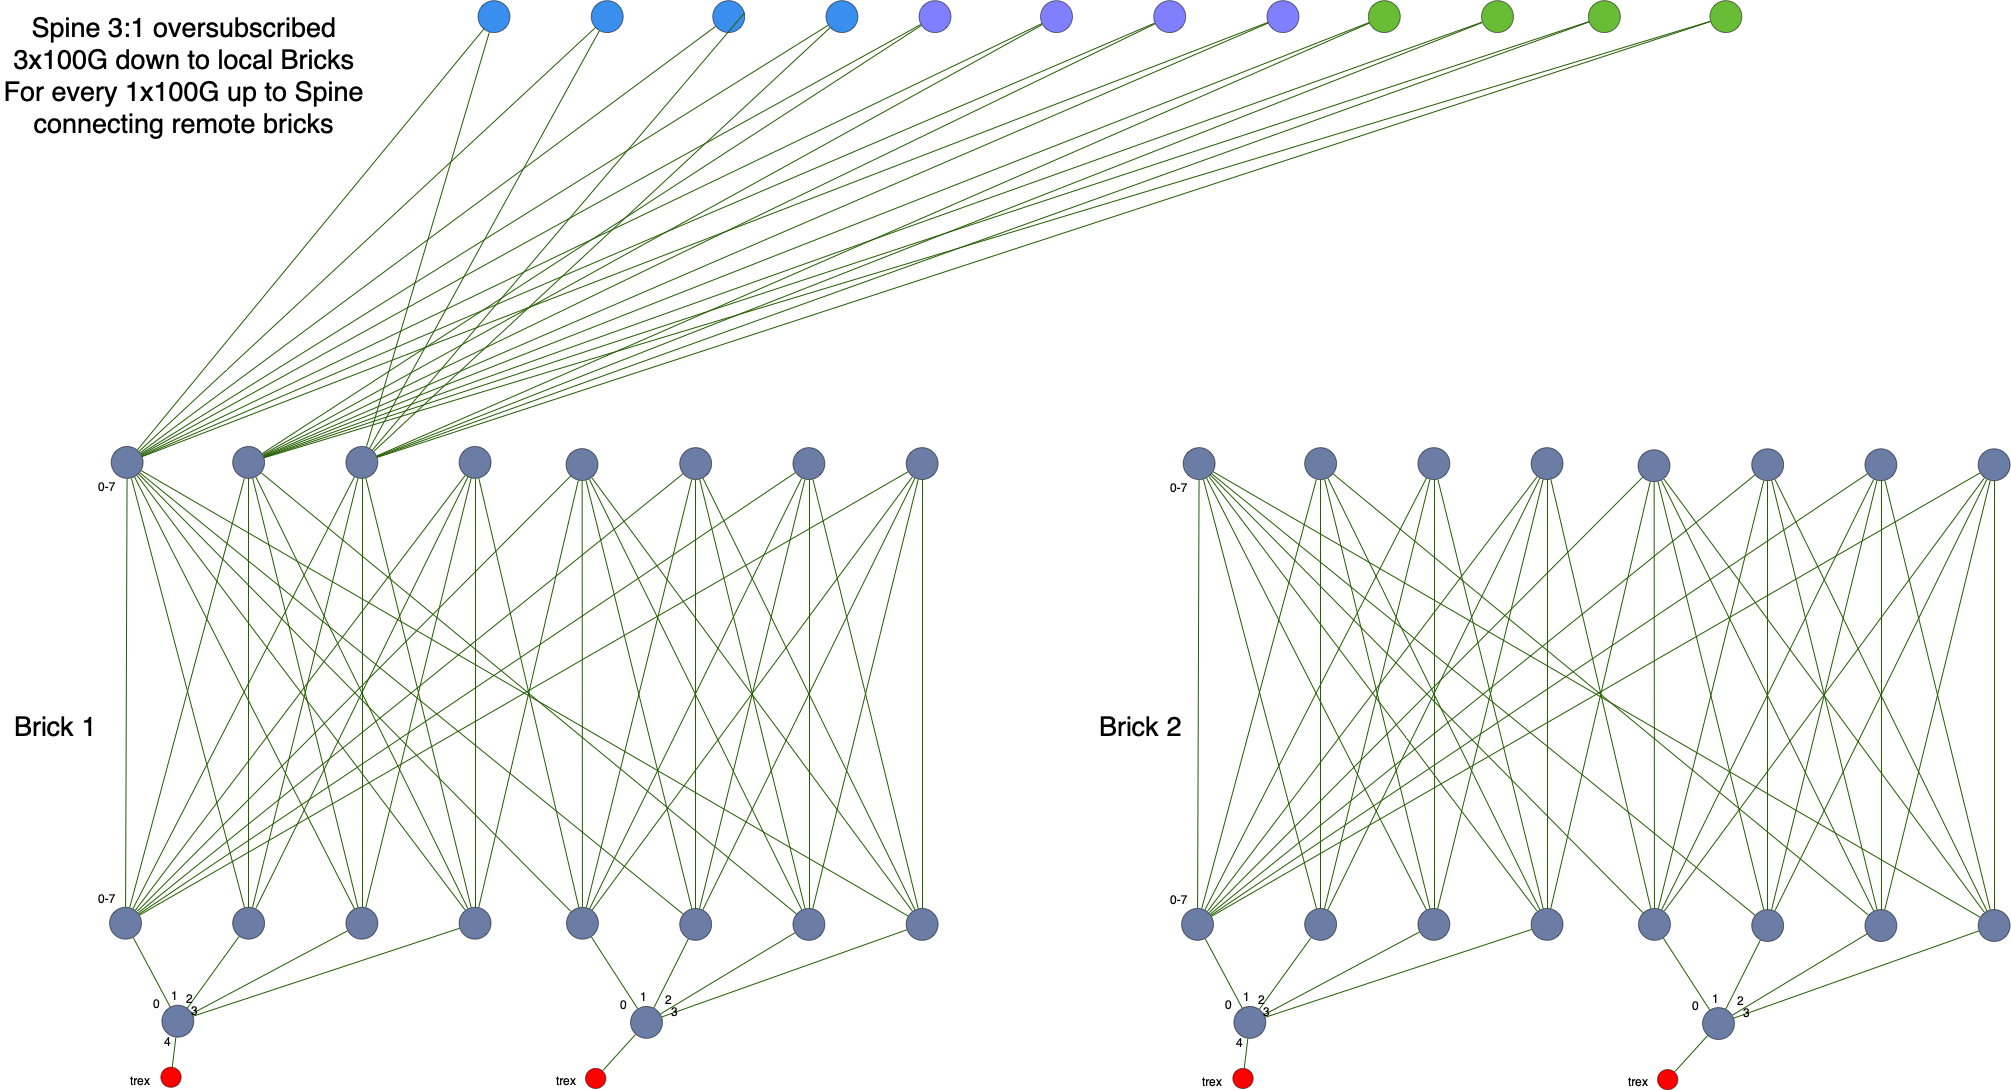
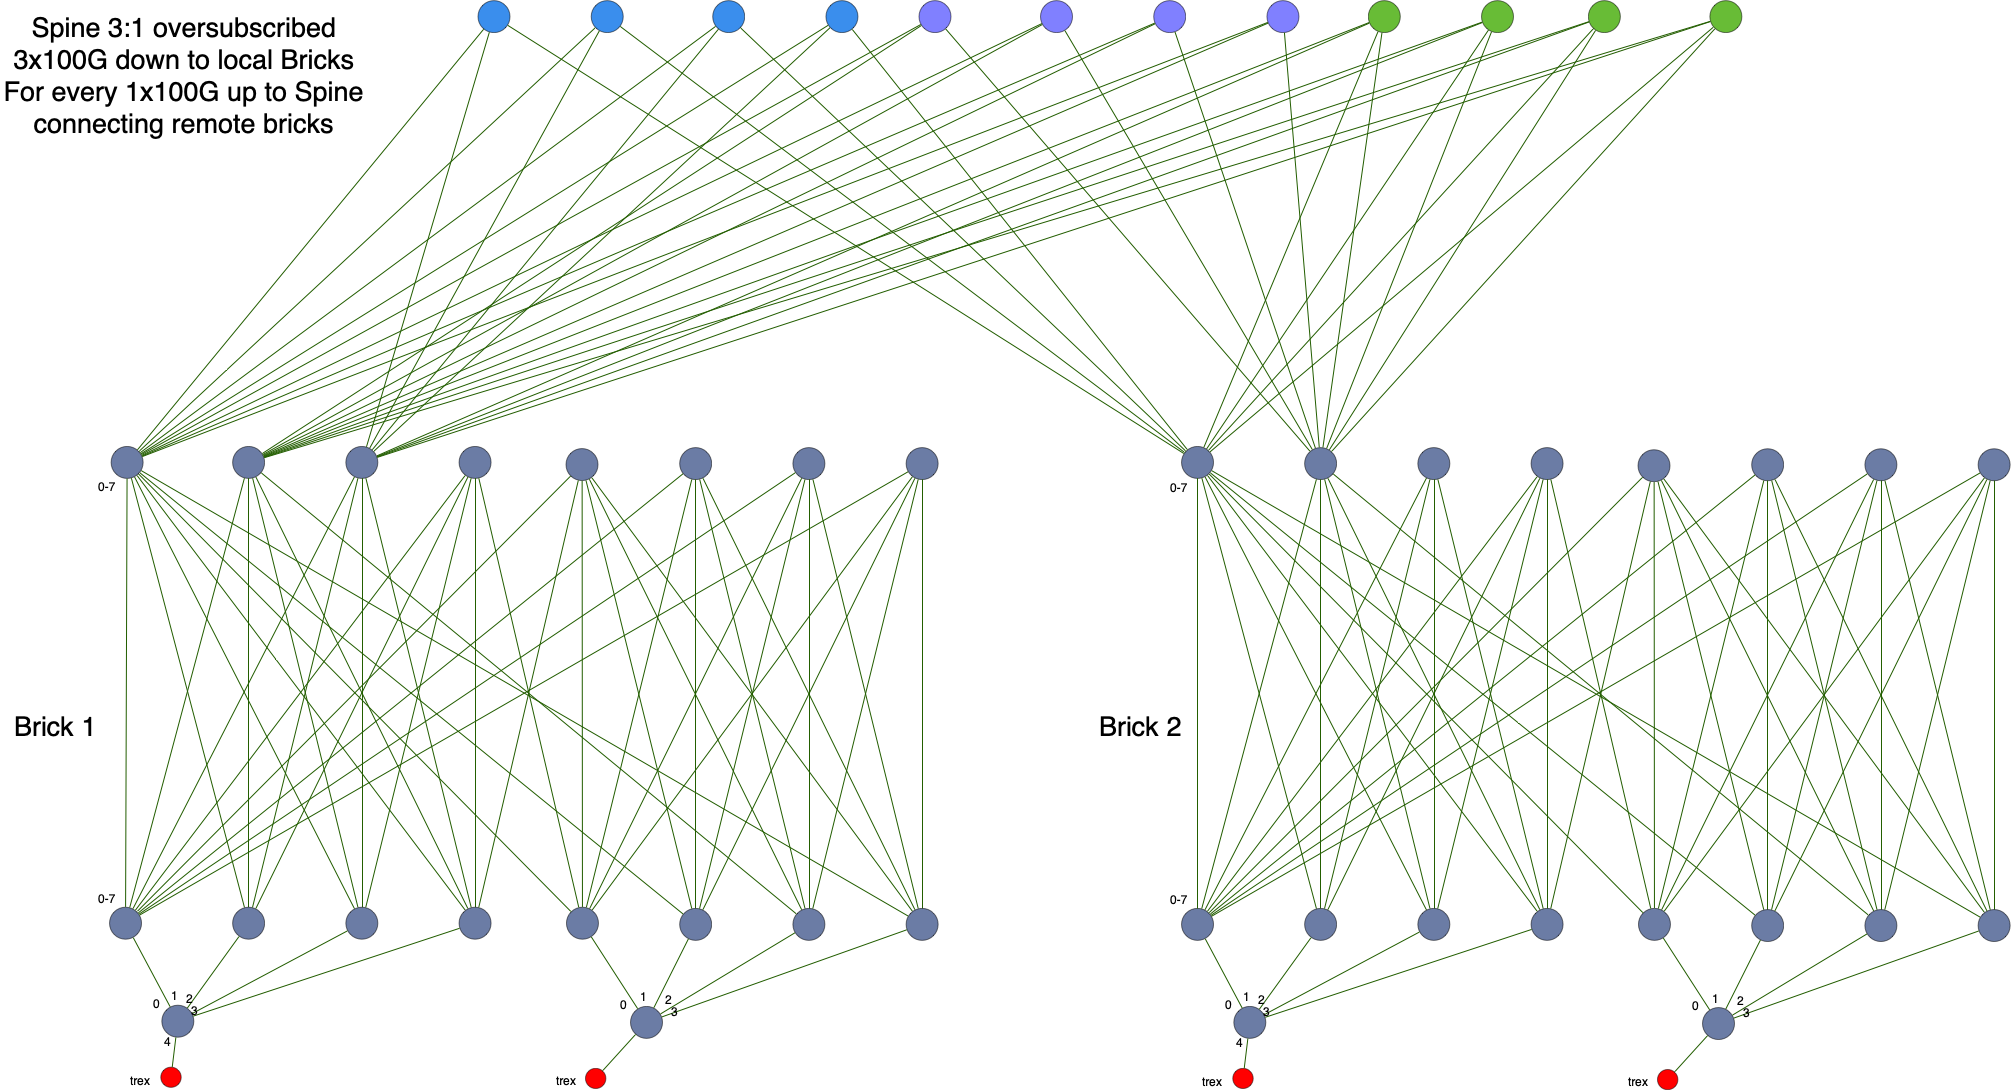
clos

diff --git a/2-use-case-topologies/clab-clos/readme.md b/2-use-case-topologies/clab-clos/readme.md
@@ -2,4 +2,6 @@
 
 Two 8x8 bricks uplinked to a 12-node spine
 
+Not all uplinks to spine are shown...because...effffort
+
 ![Topology](clab-clos.png)
